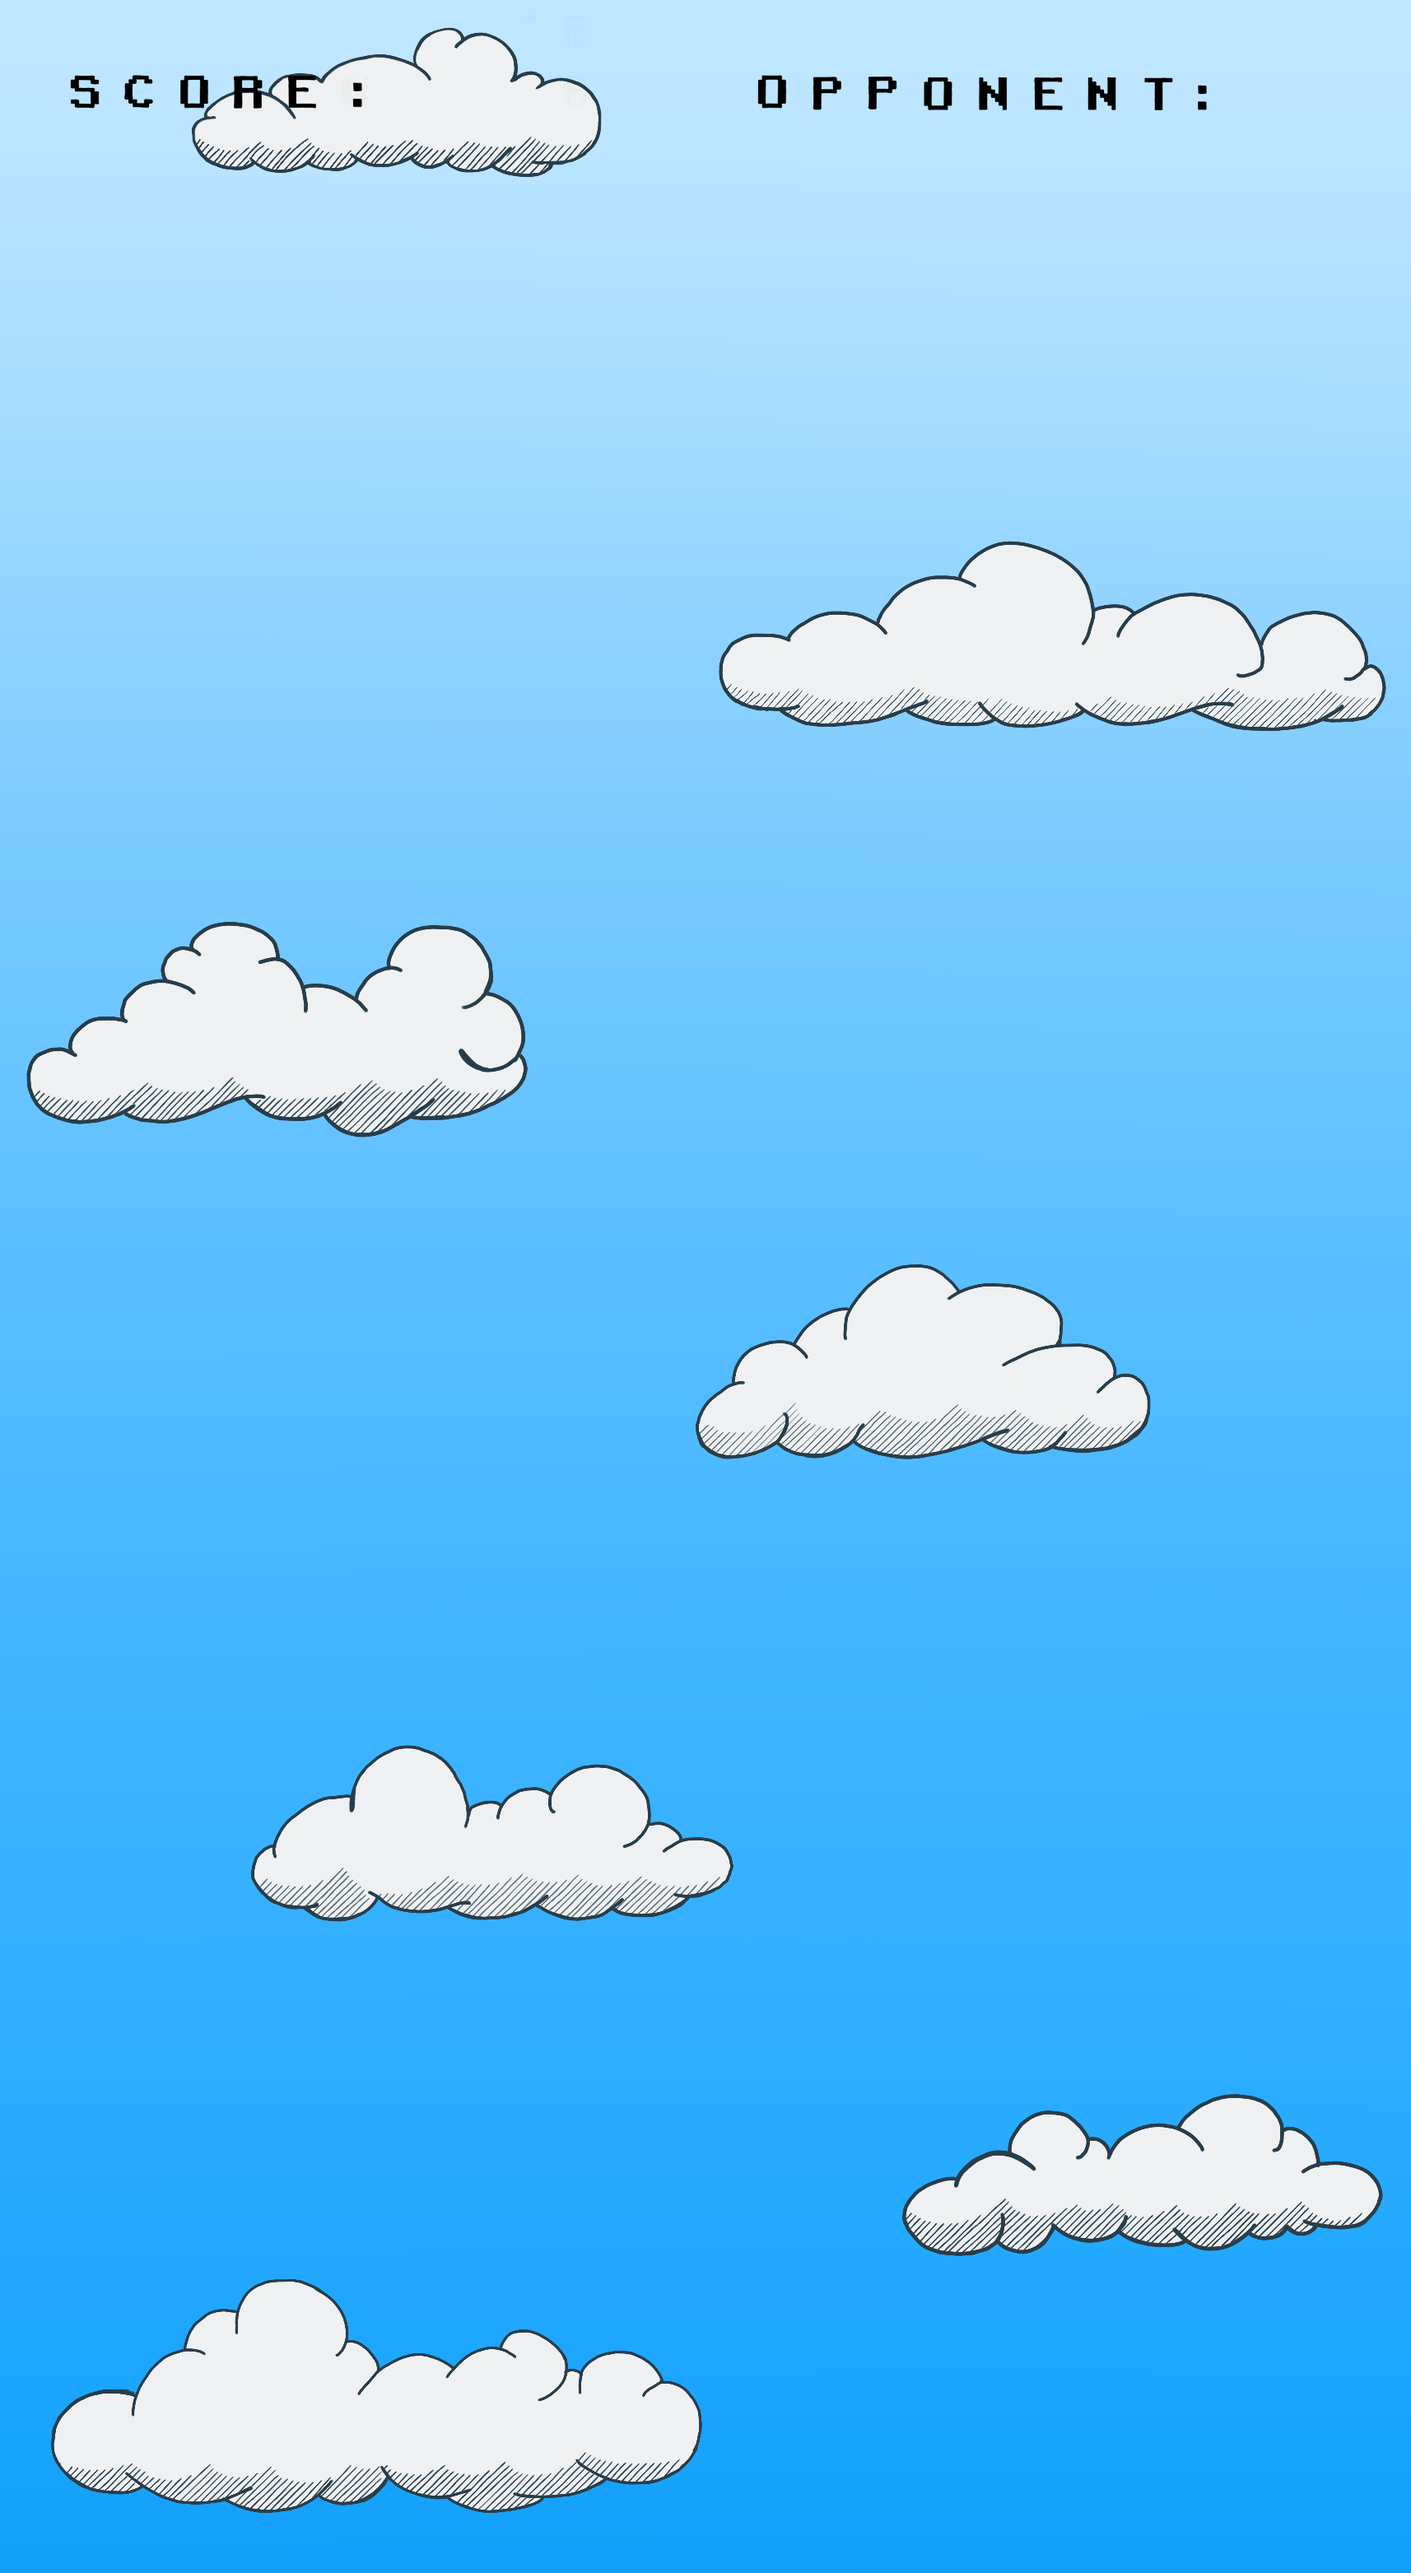
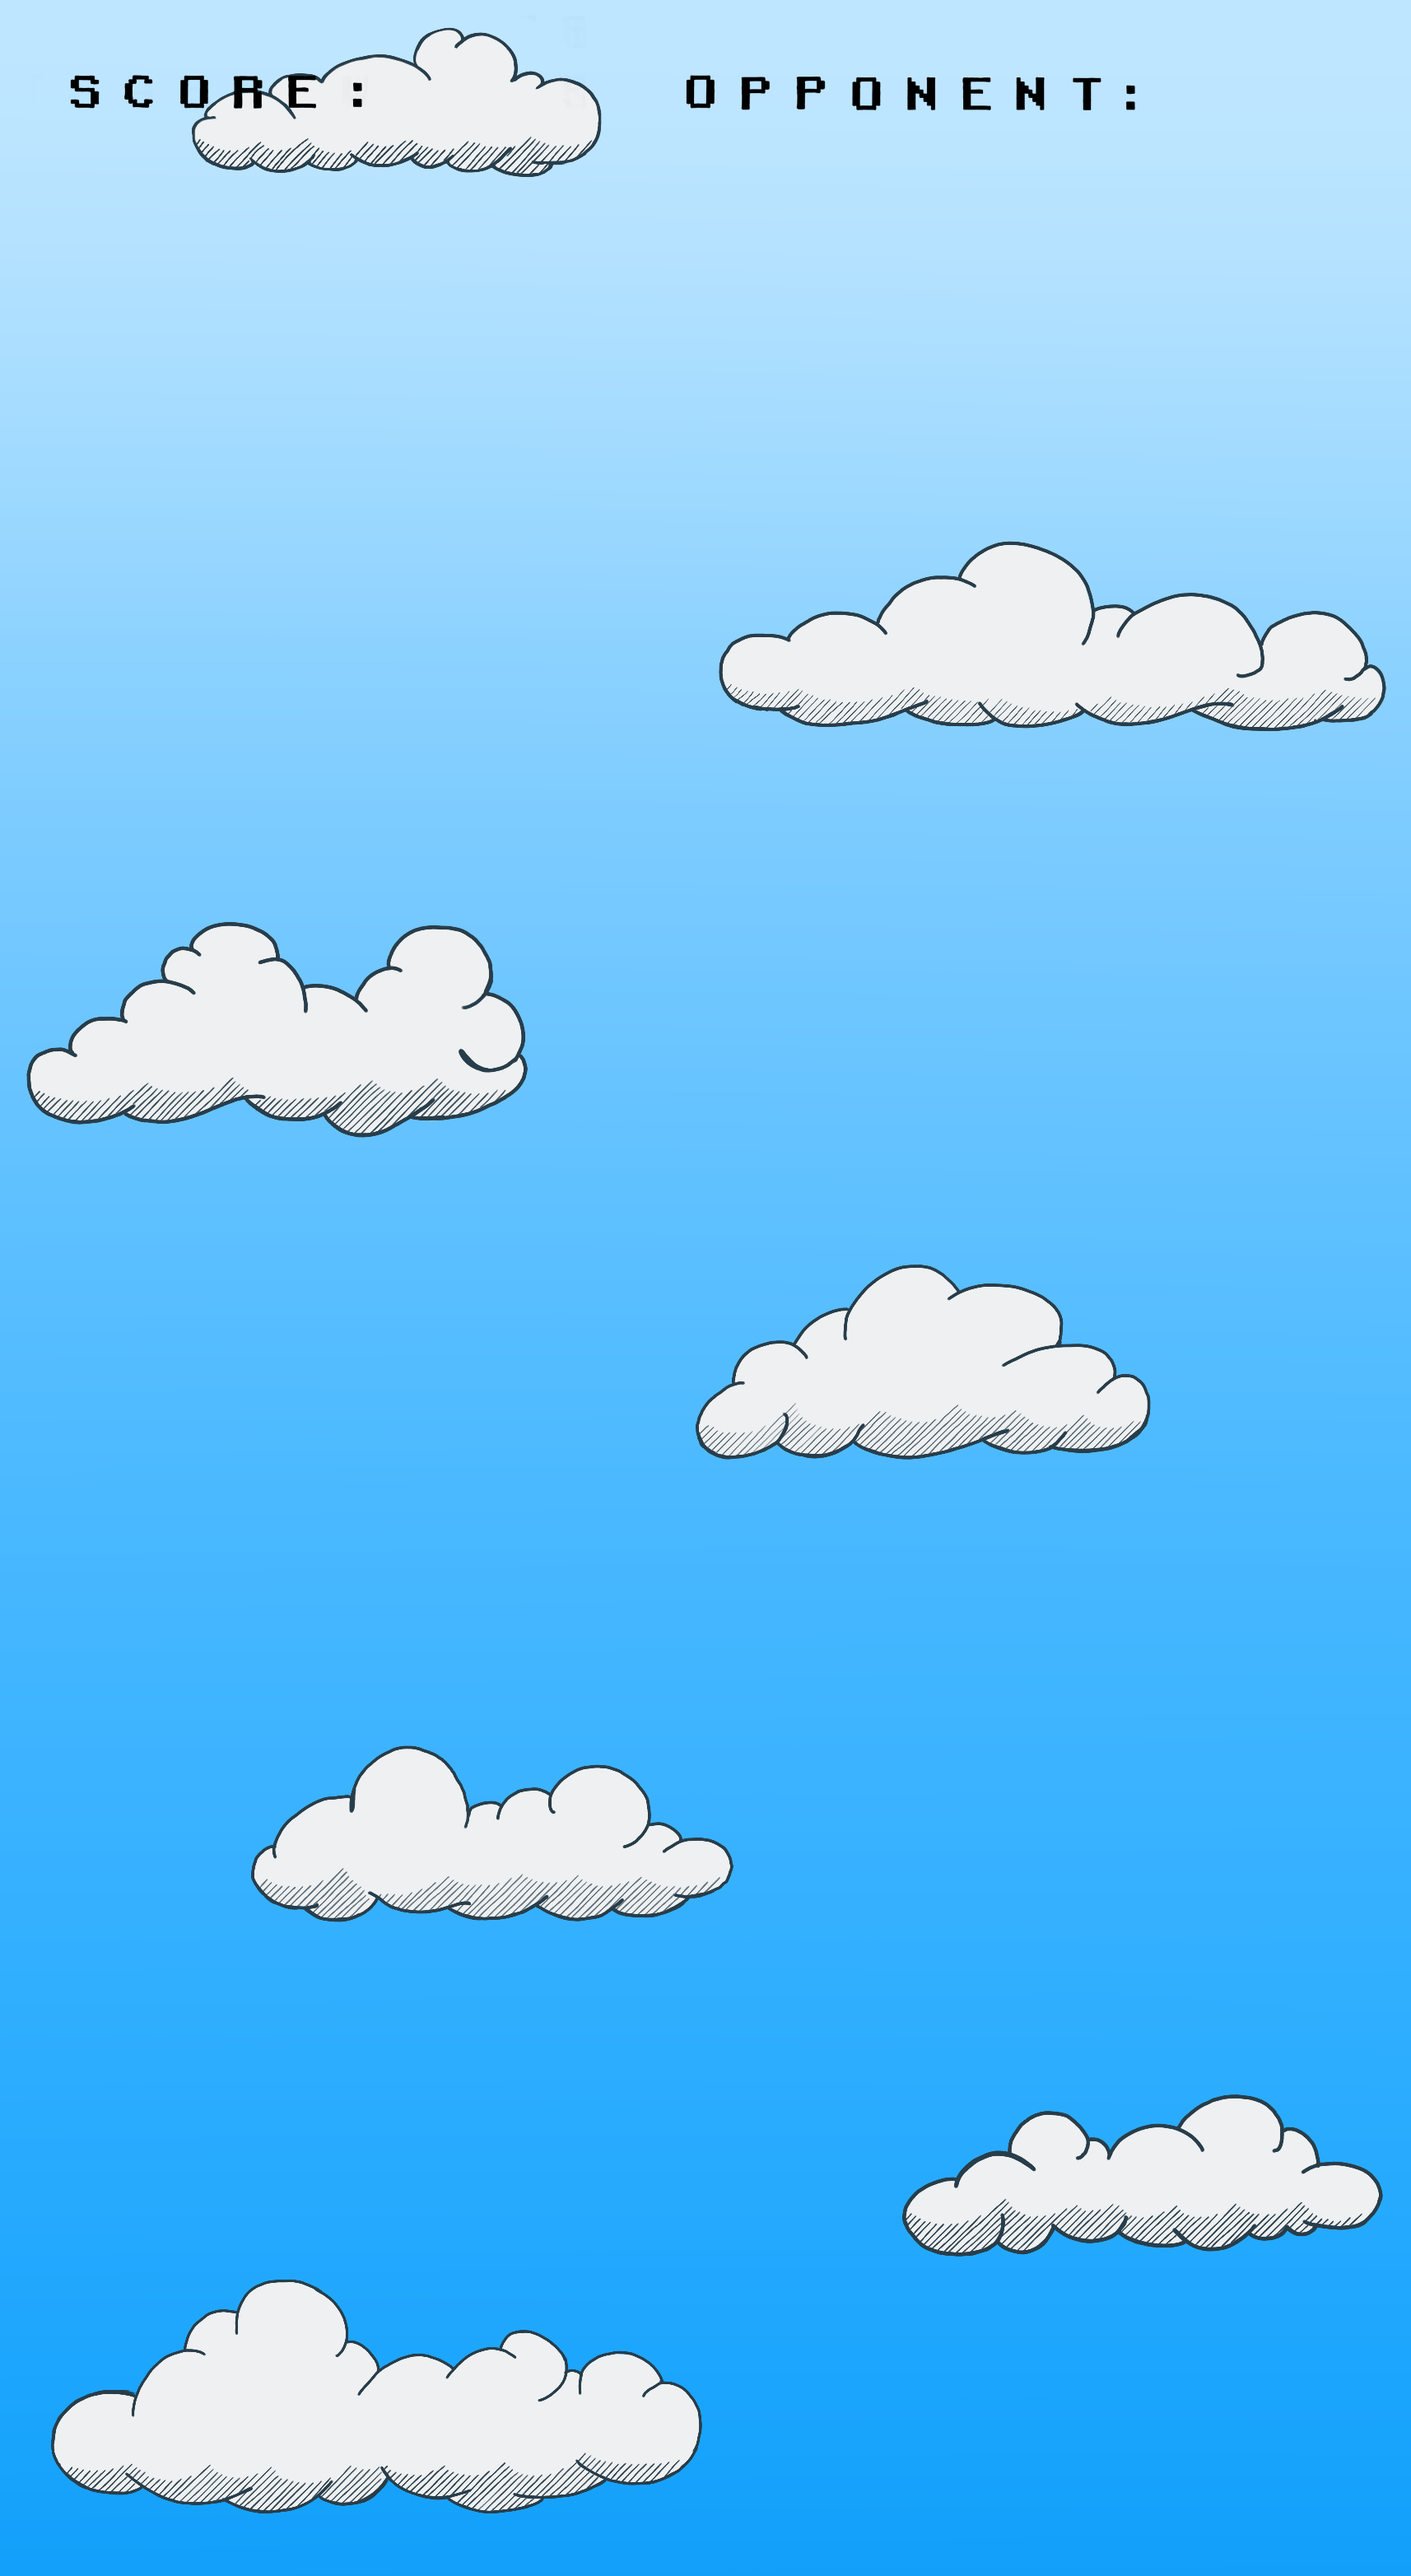
repositioned opponent score multiplayerview
repositioned the opponentscore so that it is possible to see numbers with three digits

diff --git a/android/src/com/fallingangel/backend/AndroidInterfaceClass.java b/android/src/com/fallingangel/backend/AndroidInterfaceClass.java
@@ -41,11 +41,8 @@ public class AndroidInterfaceClass implements FireBaseInterface {
     private ValueEventListener gameIsOverListener;
     private ValueEventListener highScoreListener;
     private ValueEventListener gameWonListener;
-    private FallingAngel game;
-    private GameActionsController gameactionsController;
 
     public AndroidInterfaceClass(){
-        game = FallingAngel.getInstance();
         database = FirebaseDatabase.getInstance("https://falling-angel-74f3f-default-rtdb.europe-west1.firebasedatabase.app/");
         users = database.getReference("users");
         rooms = database.getReference("games");
@@ -360,6 +357,7 @@ public class AndroidInterfaceClass implements FireBaseInterface {
                         }
                     });
         }
+        gameIsOver = false;
     }
 
     // Found at: https://www.baeldung.com/java-random-string

diff --git a/core/src/com/fallingangel/controller/system/RenderingSystem.java b/core/src/com/fallingangel/controller/system/RenderingSystem.java
@@ -134,7 +134,7 @@ public class RenderingSystem extends IteratingSystem{
         if (isMultiplayer){
             String opponentScoreString = Integer.toString(this.game.FBI.getOpponentScore());
             font.getData().setScale(8, 8);
-            font.draw(sb, opponentScoreString, Gdx.graphics.getWidth()*0.9f, Gdx.graphics.getHeight()*0.981f);
+            font.draw(sb, opponentScoreString, Gdx.graphics.getWidth()*0.85f, Gdx.graphics.getHeight()*0.981f);
         }
 
         /*
